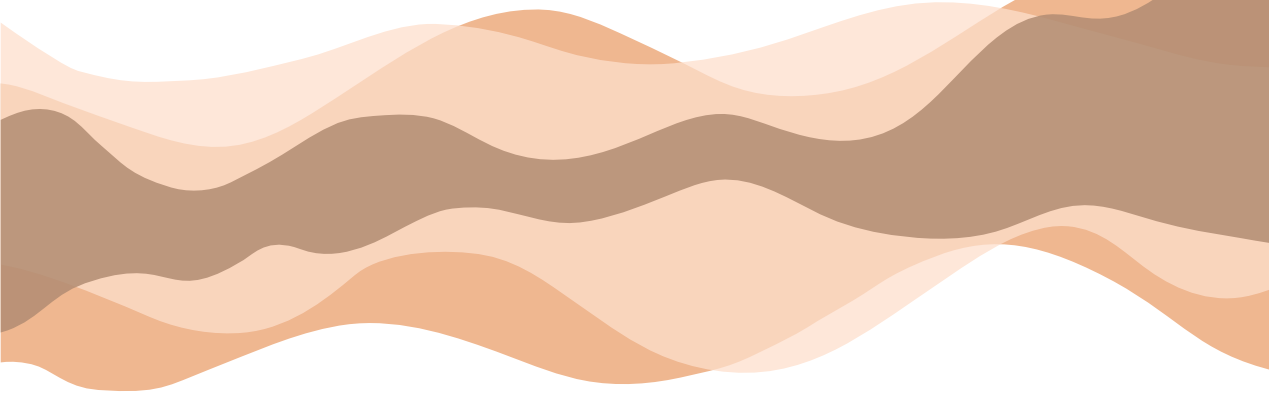
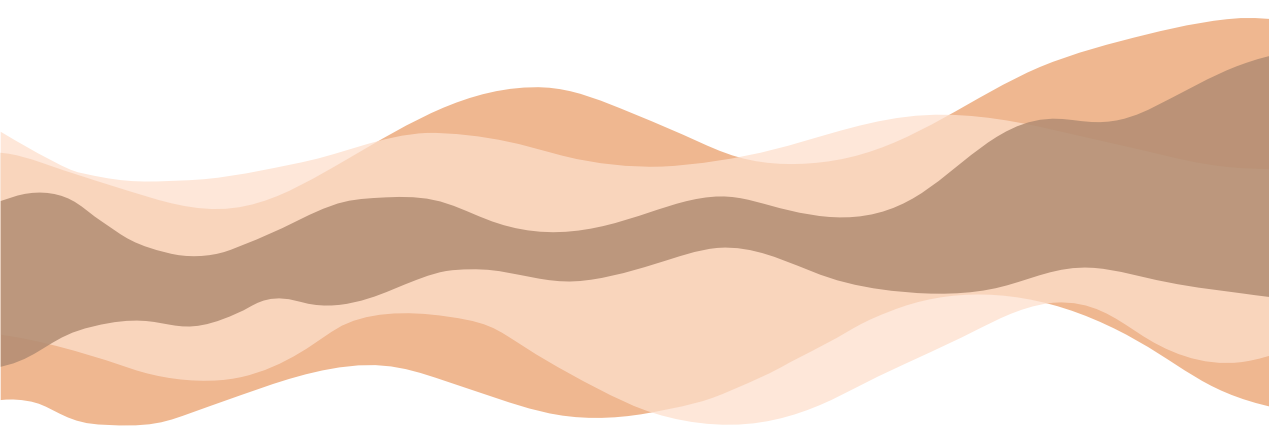
2.2
Design & CSS edits

diff --git a/index.html b/index.html
@@ -21,45 +21,49 @@
         </ul>
     </div>
 
-     <section class="banner">
+    <section class="banner">
 
         <!-- SOIL BANNER -->
-        <img class="soil" src="assets/soil.png" width="100%vw">
+        <img class="soil" src="assets/soil.png" width="100%" height="400px">
 
         <!-- LOGO -->
-        <img class="logo" src="assets/textLogo.png">    
+        <img class="logo" src="assets/textLogo.png">
 
-    </section> 
+    </section>
 
 
-        
-    
+
+
 
 
     <!-- CONTENT -->
 
     <section class="gridContainerHomepage">
 
-        <section class="frontpageHeadline">
+        <section class="homepageText">
+
             <h1>A voluntary Community Market Garden & Wellness Hub</h1>
-        </section>
 
-        <section class="frontpageText">
-            <p>Born out of a need for food security in Stockport, the group have cultivated a space for the local community to learn, to grow and harvest crops freely!</p>
+            <p>Born out of a need for food security in Stockport, the group have cultivated a space for the local
+                community to learn, to grow and harvest crops freely!</p>
 
-            <p>Marbury Road Edible Garden is a volunteer-run community group focusing on gardening and growing food for the community. We also run wellbeing workshops, including yoga, mindful watercolour painting, sound and healing meditation and more!</p>
+            <p>Marbury Road Edible Garden is a volunteer-run community group focusing on gardening and growing food for
+                the community. We also run wellbeing workshops, including yoga, mindful watercolour painting, sound and
+                healing meditation and more!</p>
 
             <h2>Collections</h2>
-            <p>We arrange collections from local restaurants and households that save their organic waste for the group to cycle back to the garden to make compost. Collections are on Mondays and Wednesdays 10am - 6pm.</p>
+            <p>We arrange collections from local restaurants and households that save their organic waste for the group
+                to cycle back to the garden to make compost. Collections are on Mondays and Wednesdays 10am - 6pm.</p>
 
             <h2>Deliveries</h2>
-            <p>We are also able to make deliveries. Working alongside <a href="https://www.reddishmeninsheds.com/" target="_blank"> Reddish Men in Sheds</a>, we deliver handmaid gift boxes to referrals following a hospital discharge. Deliveries are made at a time convenient to the recipient by a volunteer.</p>
+            <p>We are also able to make deliveries. Working alongside <a href="https://www.reddishmeninsheds.com/"
+                    target="_blank"> Reddish Men in Sheds</a>, we deliver handmaid gift boxes to referrals following a
+                hospital discharge. Deliveries are made at a time convenient to the recipient by a volunteer.</p>
         </section>
 
-        <section class="frontpageImages">
-            <img class="bean1" src="images/bean1.png">
-
-
+        <section class="homepageImages">
+            <img src="assets/bean1.png" width="120%">
+            <img src="assets/bean2.png" width="100%">
         </section>
     </section>
     <footer>

diff --git a/style.css b/style.css
@@ -1,5 +1,3 @@
-/*COLOUR PALETTE*/
-
 
 /*FONTS*/
 
@@ -9,7 +7,6 @@
 }
 
 @font-face {
-
   font-family: 'droidSansBold';
   src: url(fonts/DroidSans-Bold.ttf);
 }
@@ -21,12 +18,12 @@ body {
   background-color: #FBF1F0;
   color: #782D16;
   font-size: 12pt;
-  width: 100%;
   margin: 0;
   padding: 0;
 }
 
 /*H TAGS*/
+
 h1 {
   font-family: "droidSansBold";
   font-size: 2em;
@@ -43,13 +40,15 @@ h2 {
 /*HOMEPAGE BANNER*/
 
 .topBar {
-  background-color: #FBF1F0;
-  padding-top:5px;
+  background-color: rgb(251, 241, 240, 0.8);
+  padding-top: 5px;
   padding-bottom: 35px;
-  margin-top:0px;
-  width:100%;
-  position:fixed;
-  z-index:+1;
+  padding-right: 30px;
+  margin-top: 0px;
+  margin-left: -30px;
+  width: 100%;
+  position: fixed;
+  z-index: +1;
 }
 
 /* MENU */
@@ -59,48 +58,51 @@ h2 {
   list-style-type: none;
   margin-top: 5px;
   margin-bottom: 5px;
-  width:100%;
-  position:fixed;
-  z-index:+2;
+  width: 100%;
+  position: fixed;
+  z-index: +2;
 }
 
 li a {
   font-family: "droidSans";
   float: right;
   display: block;
-  padding-right: 50px;
+  margin-right: 60px;
   text-decoration: none;
   color: #B54321;
 }
 
-li a:active {
-  color: #ed26cc;
-}
-
 li a:hover {
-  color: #EA9F6B;
+  color: #765c49;
 }
 
 .banner {
   position: relative;
-  top:0px;
+  display: grid;
+  top: 0px;
+}
+
+.soil,
+.logo {
+  grid-column: 1;
+  grid-row: 1;
 }
 
 .soil {
   max-width: 100%;
   position: relative;
   margin-left: 0px;
-  margin-top:0px;
+  margin-top: -60px;
   z-index: -2;
 }
 
 .logo {
   width: 200px;
-  display:absolute;
-  float:right;
-  margin-top:-420px;
-  margin-left:auto;
-  margin-right:30px;
+  display: relative;
+  margin-top: 60px;
+  margin-left: auto;
+  margin-right: 40px;
+  z-index: -1;
 }
 
 /*GRID CONTENT HOMEPAGE*/
@@ -108,37 +110,39 @@ li a:hover {
 .gridContainerHomepage {
   display: grid;
   gap: 10px;
-  margin-right:10%;
-  margin-left:10%;
-  grid-template-columns: 40%, 40%;
+  margin-right: 10%;
+  margin-left: 10%;
 }
 
-.frontpageHeadline {
+.homepageText {
   grid-column: 1;
   grid-row: 1;
+  width:100%;
 }
 
-.frontpageText {
-  grid-column: 1;
-  grid-row: 2;
-}
-
-.frontpageImages {
+.homepageImages {
   grid-column: 2;
-  grid-row: 1 / span 2;
-  text-align: right;
+  grid-row: 1;
+  width:100%;
+  padding-left: 20px;
 }
 
 /*GRID CONTENT CONTACT*/
 
-.gridContainerContact {
-  display: grid;
-  gap: 10px;
-  grid-template-columns: 15%, 60%, 15%;
-  margin-top:100px;
+#contact {
+  background-image: url("assets/soilBG.png");
+  background-size: 100%;
+  background-repeat: repeat-y;
 }
 
-.bugBorderLeft {
+
+.gridContainerContact {
+  display: grid;
+  grid-template-columns: 25%, 50%, 25%;
+  margin-top: 20px;
+}
+
+.bugColLeft {
   grid-column: 1;
   grid-row: 1;
 }
@@ -147,15 +151,26 @@ li a:hover {
   grid-column: 2;
   grid-row: 1;
   text-align: center;
+  background-color: rgb(251, 241, 240, 1);
+  border-radius: 20px;
 }
 
-.bugBorderRight {
+.bugColRight {
   grid-column: 3;
   grid-row: 1;
 }
 
-.bug {
+.bugL, .bugR {
   width: 40px;
+  margin:10px
+}
+
+.bugL {
+  float:left;
+}
+
+.bugR {
+  float:right;
 }
 
 /* FOOTER */

diff --git a/contact.html b/contact.html
@@ -8,12 +8,9 @@
     <meta charset="UTF-8">
 </head>
 
+<body id="contact">
 
-<body>
-
-
-    
-        <!-- MENU -->
+    <!-- MENU -->
     <div class="topBar">
         <ul id="menuList">
             <li><a href="https://www.justgiving.com/crowdfunding/mregpolytunnel" target="_blank">FUNDRAISER</a></li>
@@ -23,34 +20,38 @@
         </ul>
     </div>
 
+    <section class="banner">
+        <!-- LOGO -->
+        <img class="logo" src="assets/textLogo.png">
+    </section>
+
     <!-- CONTAINER -->
 
     <section class="gridContainerContact">
 
-        <section class="bugBannerLeft">
-
-            <img class="bug" src="assets/bug1.png"><br>
-            <img class="bug" src="assets/bug2.png"><br>
-            <img class="bug" src="assets/bug3.png"><br>
-            <img class="bug" src="assets/bug4.png"><br>
-            <img class="bug" src="assets/bug5.png"><br>
-            <img class="bug" src="assets/bug6.png"><br>
-            <img class="bug" src="assets/bug7.png"><br>
-            <img class="bug" src="assets/bug8.png">
-
+        <section class="bugColLeft">
+            <!--I want these bugs to appear on scroll when I learn how to do that-->
+            <img class="bugL" src="assets/bug1.png"><br>
+            <img class="bugL" src="assets/bug2.png"><br>
+            <img class="bugL" src="assets/bug3.png"><br>
+            <img class="bugL" src="assets/bug4.png"><br>
         </section>
     
         <section class="form">
-            <p style="text-align: center;"><iframe src="https://docs.google.com/forms/d/e/1FAIpQLSfE0M1D96WLmiL2kQgyQy3txzfYSCgb0RitFvcgtWjC0YDnLw/viewform?embedded=true" width="600" height="1900" frameborder="0" >Loading…</iframe></p>
+            <h1>Contact Form</h1>
+            <iframe src="https://docs.google.com/forms/d/e/1FAIpQLSfE0M1D96WLmiL2kQgyQy3txzfYSCgb0RitFvcgtWjC0YDnLw/viewform?embedded=true" width="800" height="1900" frameborder="0" >Loading…</iframe>
         </section>
 
-        <section class="bugBorderRight">
-
+        <section class="bugColRight">
+            <img class="bugR" src="assets/bug5.png"><br>
+            <img class="bugR" src="assets/bug6.png"><br>
+            <img class="bugR" src="assets/bug7.png"><br>
+            <img class="bugR" src="assets/bug8.png">
         </section>
-        </section>
 
+    </section>
+    
+    <footer>
+    </footer>
 
-        <footer>
-
-        </footer>
 </body>
